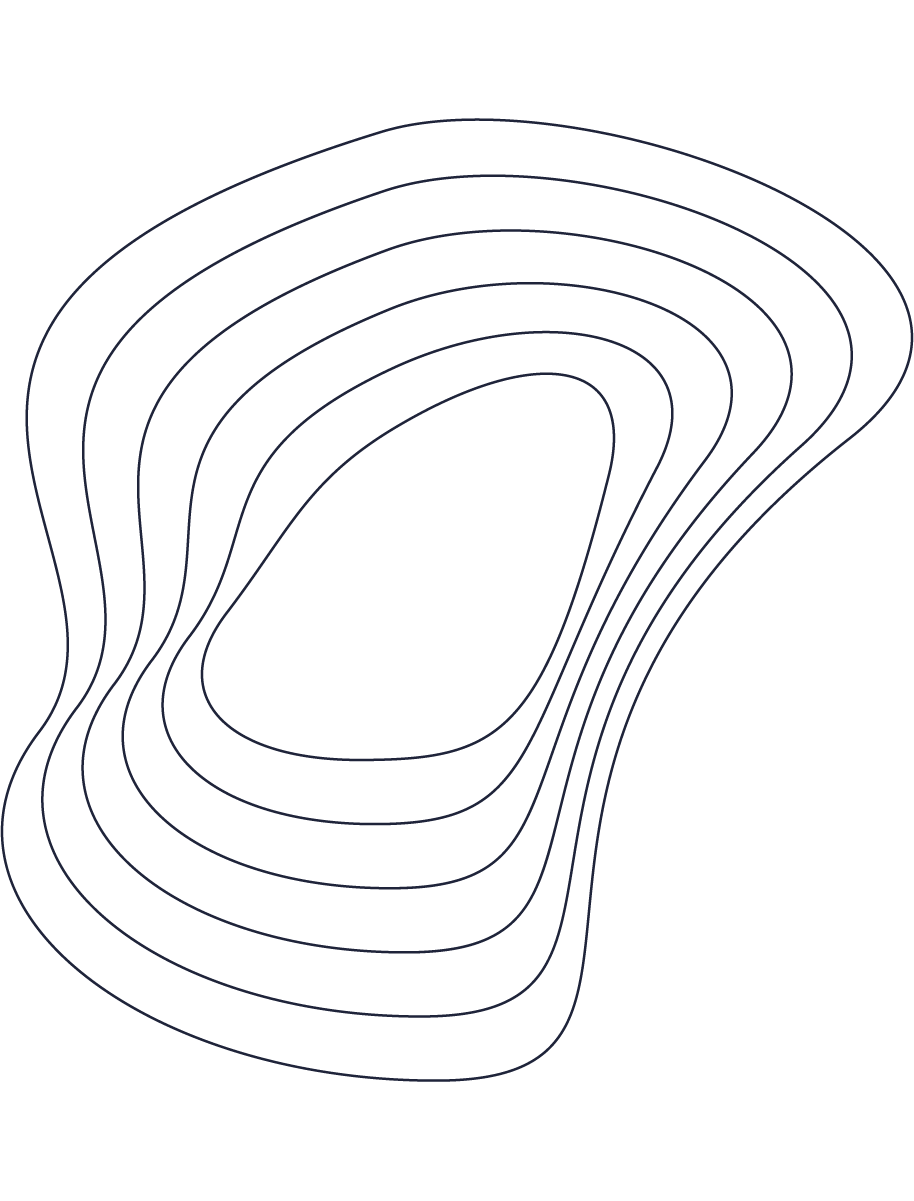
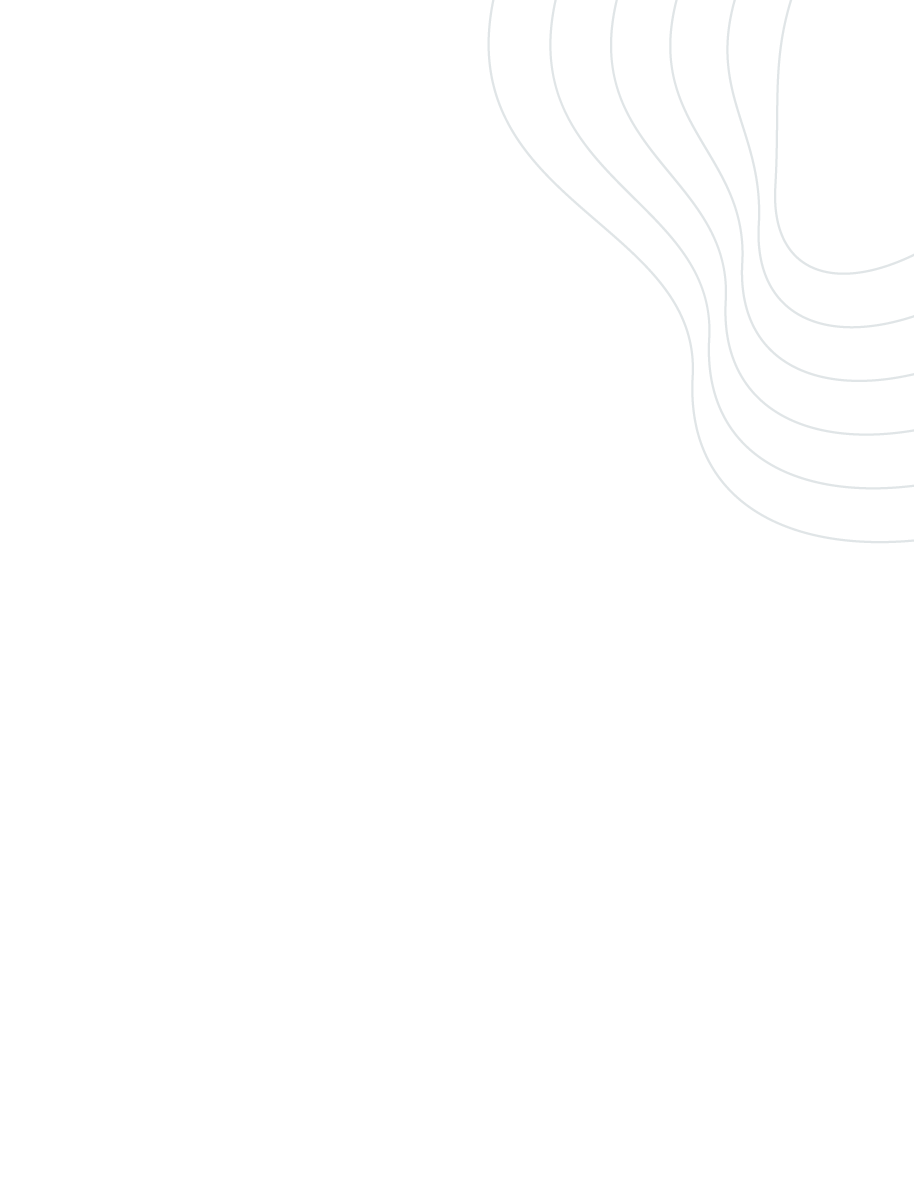
Up to byline
Going well. Just have to add the last piece of content, then the footer.

diff --git a/css/style.css b/css/style.css
@@ -6,6 +6,7 @@
 	/*text-align: center;*/
 	margin: 0;
 	padding: 0;
+	transition: all 0.1s ease-out;
 }
 
 html {
@@ -50,7 +51,8 @@ iframe {
 }
 
 #top h1 {
-		max-width: 720px;
+		width: 70%;
+		max-width: 900px;
 		margin: 0 auto;
 	}
 
@@ -74,16 +76,16 @@ iframe {
 	/*https://developer.mozilla.org/en-US/docs/Web/Guide/CSS/Using_multiple_backgrounds*/
 	background:	url(../img/wave-01.png);
 	background-repeat: no-repeat;
-	background-position: 180% 110%;
+	background-position: top right;
 	/*background-size: 40%;*/
 	padding: 100px 0 0;
-	
 }
 
 .content section {
 	max-width: 960px;
-	margin: 0 auto 120px;
-	border-bottom: 1px solid black;
+	margin: 0 auto 80px;
+	padding-bottom: 60px;
+	/*border-bottom: 1px solid rgba(0, 0, 0, 0.1);*/
 }
 
 .content h2 {
@@ -100,20 +102,52 @@ iframe {
 	margin-bottom: 20px;
 }
 
-#section1 {
-
-}
-
 #section2 {
 	text-align: right;
 }
 
-#section2 ul li{
+#section2 ul li {
 	float: right;
 }
 
+	#section2:after {
+	  content: "";
+	  display: table;
+	  clear: both;
+	}
 
 
+#byline {
+
+	background-color: #667e86;
+	background-image: url(../img/wave-bg-01.png);
+	background-repeat: no-repeat;
+	background-position: center center;
+	background-size: cover;
+	color: white;
+	text-align: center;
+	padding: 100px 0;
+}
+
+	#byline p {
+		width: 70%;
+		max-width: 900px;
+		margin: 0 auto 60px;
+		font-size: 24pt;
+	}
+
+	#byline a {
+		padding: 20px 60px;
+		background-color: white;
+		color: #667e86;
+		border-radius: 100px;
+		font-size: 16pt;
+		font-weight: 700;
+	}
+
+		#byline a:hover {
+			padding: 20px 70px;
+		}
 
 
 

diff --git a/index.html b/index.html
@@ -38,7 +38,7 @@
 
 	<!-- Content below the fold -->
 	<div class="content">
-		<section id="section1">
+		<section class="grid" id="section1">
 			<h2>Wavefront solves the problem</h2>
 			<ul>
 				<li>of uniquely identifying a person</li>
@@ -51,7 +51,7 @@
 		</section>
 		
 
-		<section id="section2">
+		<section class="grid" id="section2">
 			<h2>Wavefront's patented solution delivers</h2>
 			<ul>
 				<li>the discovery of the world’s first multi-modal biometric using live corneal and iris analysis to provide unique identification</li>
@@ -62,13 +62,12 @@
 				<li>continual discovery of new eye-related measures and markers to deepen biometric accuracy</li>
 			</ul>
 		</section>
-		
 	</div>
 
-<!-- 	<div id="byline">
+	<div id="byline">
 		<p>This revolutionary biometric technology has been developed over an 8 year period by some of the leading innovators in the world of corneal research and optometry and is now being tested for use with laptops, tablets, mobile devices and specific identification and validation solutions.</p>
-		<a href="#">See how it works</a>
-	</div>
+		<a href="#">See how it works &rarr;</a>
+	</div><!-- 
 
 	<div class="point grid_9" id="point3">
 			<h2>University testing shows we are</h2>
@@ -100,7 +99,7 @@
 		<p>Wavefront Biometric Technology is the revolutionary foundation for seamlessly and safely capturing multi-modal, natural, one time PINs using the human eye.</p>
 
 		<h6>Copyright &copy; 2015 by Wavefront Biometric Technologies Pty Ltd. All Rights Reserved.</h6>
-	</footer> -->
-	
+	</footer>
+	 -->
 </body>
 </html>
